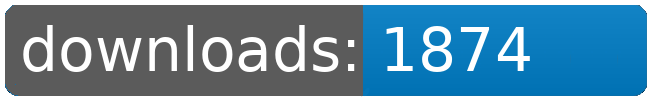
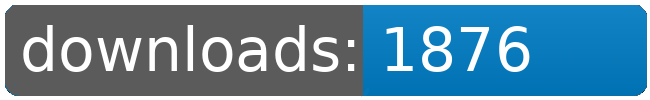
dl log written

Changed region(s): [[0.7692, 0.24, 0.8308, 0.72]]

diff --git a/README.md b/README.md
@@ -21,8 +21,8 @@
 		<td>1925</td>
 		<td>1950</td>
 		<td>1976</td>
-		<td>1990</td>
-		<td>+ 14</td>
+		<td>1991</td>
+		<td>+ 15</td>
 	</tr>
 	<tr>
 		<td>Factory.Outlets</td>
@@ -32,8 +32,8 @@
 		<td>1819</td>
 		<td>1847</td>
 		<td>1871</td>
-		<td>1874</td>
-		<td>+ 3</td>
+		<td>1876</td>
+		<td>+ 5</td>
 	</tr>
 	<tr>
 		<td>Fundamental.Outfit.Expansion</td>
@@ -109,8 +109,8 @@
 		<td></td>
 		<td></td>
 		<td></td>
-		<td>16246</td>
-		<td>42</td>
+		<td>16249</td>
+		<td>45</td>
 	</tr>
 </table>
 </sub></sup>
@@ -157,8 +157,8 @@
 		<td>1925</td>
 		<td>1950</td>
 		<td>1976</td>
-		<td>1990</td>
-		<td>+ 14</td>
+		<td>1991</td>
+		<td>+ 15</td>
 	</tr>
 	<tr>
 		<td>Korunak.Defense.Drones</td>
@@ -190,8 +190,8 @@
 		<td>1819</td>
 		<td>1847</td>
 		<td>1871</td>
-		<td>1874</td>
-		<td>+ 3</td>
+		<td>1876</td>
+		<td>+ 5</td>
 	</tr>
 	<tr>
 		<td>Jaws</td>
@@ -223,8 +223,8 @@
 		<td></td>
 		<td></td>
 		<td></td>
-		<td>16246</td>
-		<td>42</td>
+		<td>16249</td>
+		<td>45</td>
 	</tr>
 </table>
 </sub></sup>
